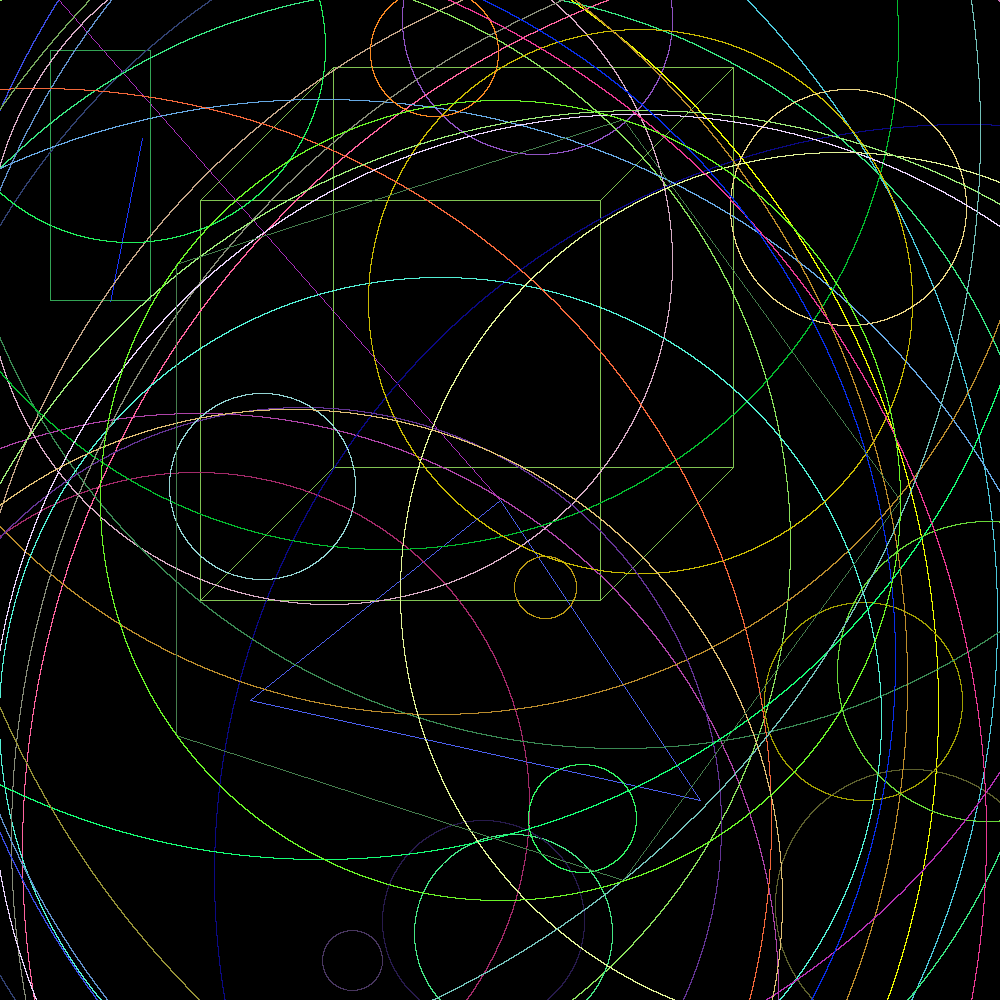
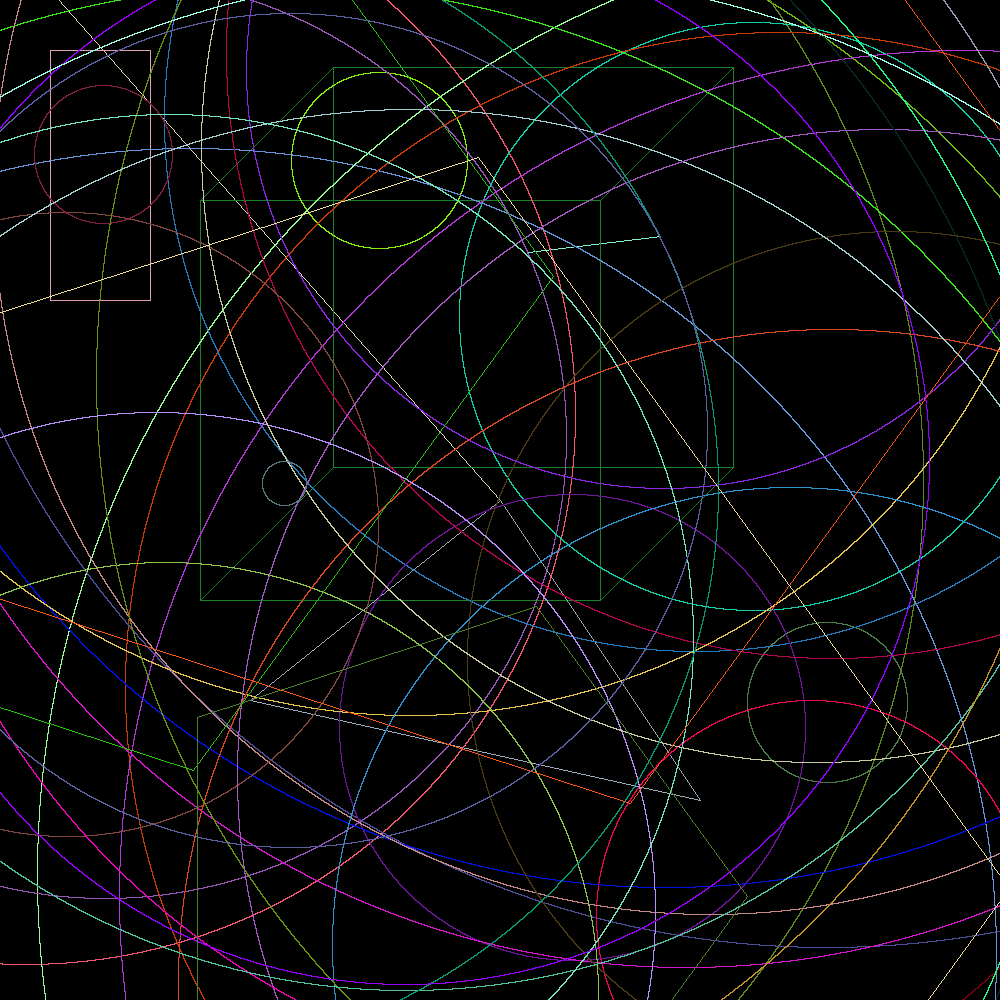
k

diff --git a/src/main.rs b/src/main.rs
@@ -31,8 +31,9 @@ fn main() {
         gs::Circle::random(image.width, image.height).draw(&mut image);
     }
 
-    gs::Pentagon::new(&Point::new(500, 500), 400).draw(&mut image);
-    gs::Circle::new(&Point::new(500, 500), 400).draw(&mut image);
+    for _ in 1..5 {
+        gs::Pentagon::random(image.width, image.height).draw(&mut image);
+    }
 
     raster::save(&image, "image.png").unwrap();
 }
